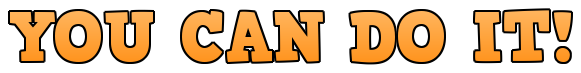
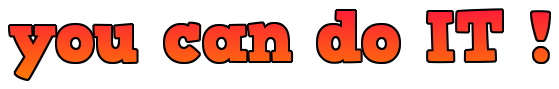
rogoとか

diff --git a/php/views/login.php b/php/views/login.php
@@ -14,12 +14,12 @@ function index()
             <form class="validate-form" action="<?php echo CURRENT_URI; ?>" method="POST" novalidate autocomplete="off">
                 <div class="form-group">
                     <label for="id">ユーザーID （挙動確認用ID：test）</label>
-                    <input id="id" type="text" name="id" class="form-control validate-target" minlength="4" required maxlength="10" pattern="[a-zA-Z0-9]+" autofocus />
+                    <input id="id" type="text" name="id" class="form-control validate-target" minlength="4" required maxlength="10" pattern="[a-zA-Z0-9]+" autofocus value="test" />
                     <div class="invalid-feedback"></div>
                 </div>
                 <div class="form-group">
                     <label for="pwd">パスワード （挙動確認用パスワード：test）</label>
-                    <input id="pwd" type="password" name="pwd" minlength="4" required tabindex="2" pattern="[a-zA-Z0-9]+" class="form-control validate-target" />
+                    <input id="pwd" type="password" name="pwd" minlength="4" required tabindex="2" pattern="[a-zA-Z0-9]+" class="form-control validate-target" value="test"/>
                     <div class="invalid-feedback"></div>
                 </div>
                 <div class="d-flex align-items-center justify-content-between">

diff --git a/php/partials/header.php b/php/partials/header.php
@@ -24,8 +24,9 @@ function header() {
             <header class="container my-5">
                 <nav class="row align-items-center py-2">
                     <a href="<?php the_url('/'); ?>" class="col-md d-flex align-items-center mb-3 mb-md-0">
-                        <img width="70" class="mr-2" src="<?php echo BASE_IMAGE_PATH; ?>wecandoit-siterogo.png" alt="We can do IT(アイティ)！　サイトロゴ">
-                        <span class="h2 font-weight-bold mb-0">We can do IT(アイティ)！</span>
+                        <img width="70" class="mr-2" src="<?php echo BASE_IMAGE_PATH; ?>wecandoit-siterogo.png" alt="We can do IT！　サイトロゴ">
+                        <img width="300" class="mr-2" src="<?php echo BASE_IMAGE_PATH; ?>title.png" alt="サイトタイトル">
+                        <?php // <span class="h2 font-weight-bold mb-0">We can do IT！</span> ?>
                     </a>
                     <div class="col-md-auto">
                         <?php if(Auth::isLogin()) : ?>

diff --git a/php/views/register.php b/php/views/register.php
@@ -6,7 +6,7 @@ function index() {
 <h1 class="sr-only">アカウント登録</h1>
 <div class="mt-5">
     <div class="text-center mb-4">
-        <img width="65" src="images/olympic-logo.png" alt="We can do IT(アイティ)！　サイトロゴ">
+        <img width="300" src="<?php echo BASE_IMAGE_PATH; ?>login-rogo.png" alt="We can do IT(アイティ)！　サイトロゴ">
     </div>
     <div class="login-form bg-white p-4 shadow mx-auto rounded">
         <form class="validate-form" action="<?php echo CURRENT_URI; ?>" method="POST" novalidate autocomplete="off">
